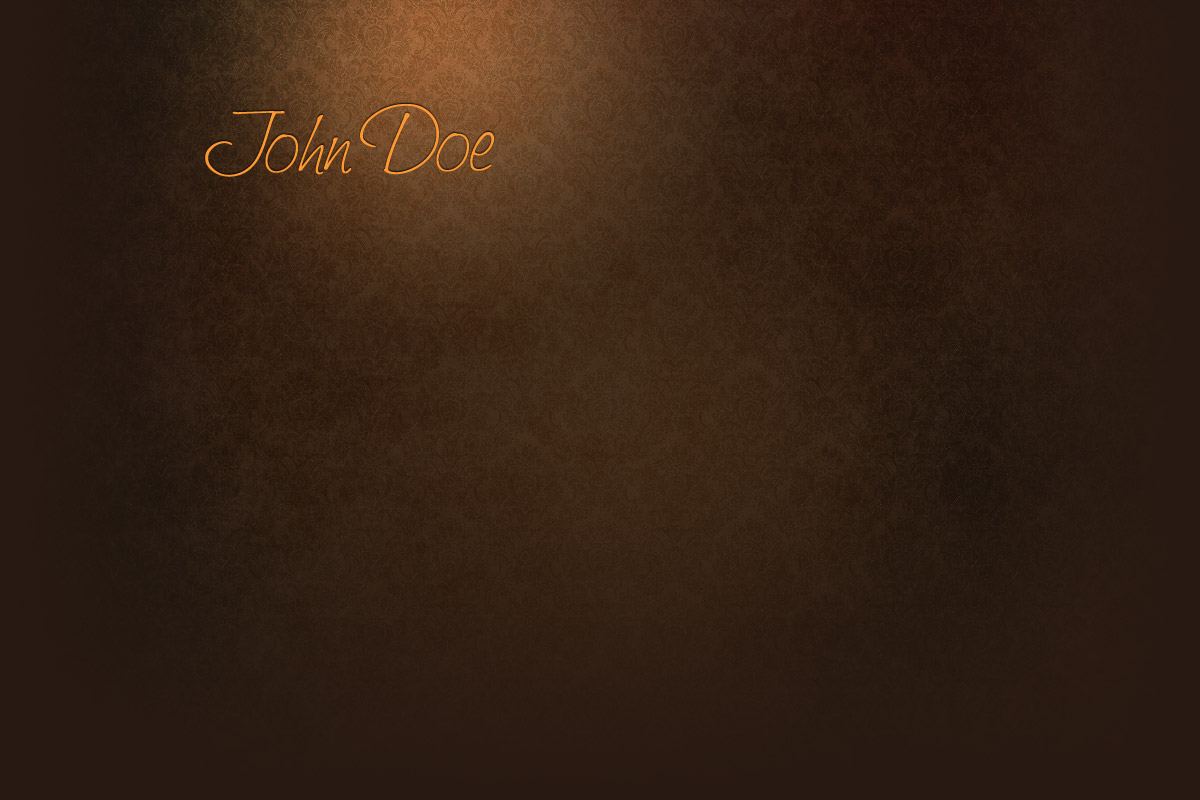
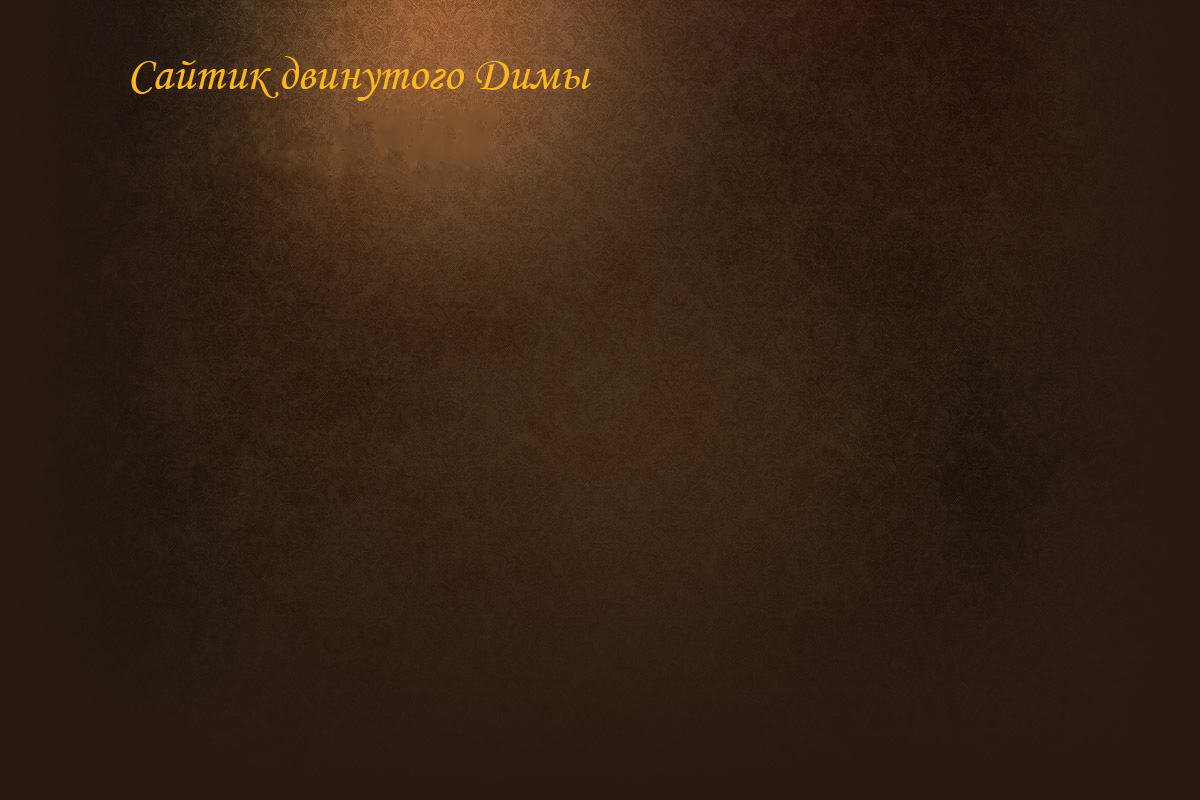
Ыыыыы

Changed region(s): [[0.0925, 0.0625, 0.4933, 0.2188]]

diff --git a/index.html b/index.html
@@ -1,8 +1,9 @@
-<!DOCTYPE HTML PUBLIC "-//W3C//DTD HTML 4.01//EN" "http://www.w3.org/TR/html4/strict.dtd">
+<!DOCTYPE html PUBLIC "-//W3C//DTD XHTML 1.0 Transitional//EN" "http://www.w3.org/TR/xhtml1/DTD/xhtml1-transitional.dtd">
+<html xmlns="http://www.w3.org/1999/xhtml">
 <html>
 	<head>
-		<meta http-equiv="Content-Type" content="text/html; charset=iso-8859-1">
-		<title>Cardex - Personal site template</title>
+		<meta http-equiv="Content-Type" content="text/html; charset=utf-8">
+		<title>Сайт двинутого Димы</title>
 		<link rel="stylesheet" type="text/css" href="style.css" media="screen">
 		<!--[if IE]>
 			<link rel="stylesheet" type="text/css" href="ie.css" media="screen">
@@ -12,8 +13,8 @@
 		<script type="text/javascript" src="js/jquery.lightbox-0.5.pack.js"></script>
 		<script type="text/javascript" src="js/cufon-yui.js"></script>
 		<script type="text/javascript" src="js/Desyrel_400.font.js"></script>
-		
-		<!-- Cufon text replacement -->
+
+		<!-- Cufon text replacement
 		<script type="text/javascript">
 			$(document).ready(function(){
 				Cufon.replace('#about .right ul li');
@@ -24,25 +25,25 @@
 				Cufon.replace('#contactinfo'), {hover:true};
 			});
 		</script>
-		
+-->
 		<!-- jQuery lightbox -->
 		<script type="text/javascript">
 			$(document).ready(function(){
 				$('#work .right a').lightBox();
 			});
 		</script>
-		
+
 		<!-- Navigation and Content effects -->
 		<script type="text/javascript">
 			$(document).ready(function(){
 				$('.page').hide();
 				$('#navigation li:first').addClass('active').show();
 				$('.page:first').show();
-				
+
 				$('#navigation li').click(function(){
 					$('#navigation li').removeClass('active');
 					$(this).addClass('active');
-					
+
 					$('.page').hide();
 					var activeTab = $(this).find('a').attr('href');
 					$(activeTab).fadeIn('slow');
@@ -54,7 +55,7 @@
 	</head>
 	<body>
 		<div id="pagewrap">
-			
+
 			<!-- Site header and navigation -->
 			<div id="header">
 				<ul id="navigation">
@@ -64,7 +65,7 @@
 					<li><a class="contact" href="#contact"><img src="images/icon-contact.png" alt="Contact"></a></li>
 				</ul>
 			</div>
-			
+
 			<!-- Site content -->
 
 			<div id="content">
@@ -73,13 +74,13 @@
 						<img src="images/author-photo.png" alt="photo">
 					</div>
 					<div class="right">
-						<h2>Hi there! Welcome to my site...</h2>
-						<p>Lorem ipsum dolor sit amet, consectetur adipisicing elit, sed do eiusmod <a href="#">tempor incididunt</a> ut labore et dolore magna aliqua. Ut enim ad minim veniam, quis nostrud exercitation ullamco laboris nisi ut aliquip ex ea commodo consequat. At vero eos et accusamus et iusto odio dignissimos, ducimus qui blanditiis.</p>
-						<h3>Services I provide:</h3>
+						<h2>Ну я это... вот:</h2>
+						<p>Абсолютно нормальная человеческая особь мужского пола.</p>
+						<h3>Что я собственно делаю?</h3>
 						<ul>
-							<li><img src="images/icon-print.png" alt="Print Design">Print Design</li>
-							<li><img src="images/icon-webdesign.png" alt="Web Design">Web Design</li>
-							<li><img src="images/icon-development.png" alt="Development">Development</li>
+							<li><img src="images/icon-print.png" alt="Print Design">Пинаю @#$ </li>
+							<li><img src="images/icon-webdesign.png" alt="Web Design">Галюцинирую</li>
+							<li><img src="images/icon-development.png" alt="Development">Пытаюсь понять ШО ПРАИСХОДЕТ?</li>
 						</ul>
 					</div>
 				</div>
@@ -87,19 +88,19 @@
 				<div id="work" class="page">
 					<div class="left">
 						<img src="images/image-feature.jpg" alt="Featured project">
-						<h3><a href="#">Featured Project</a></h3>
-						<p>Lorem ipsum dolor sit amet, consec tetur adipisicing elit...</p>
+						<h3><a href="#">Нереальный глюк</a></h3>
+						<p></p>
 					</div>
 					<div class="right">
-						<p>Labore et dolore magna aliqua. Ut enim ad minim veniam, quis nostrud exercitation ullamco laboris nisi ut aliquip ex ea commodo consequat.</p>
-						<h3>Print Design:</h3>
+						<p></p>
+						<h3>Глюки 1:</h3>
 						<ul id="work01">
 							<li><a href="images/image01.jpg"><img src="images/logo01.jpg" alt="logo01"></a></li>
 							<li><a href="images/image02.jpg"><img src="images/logo02.jpg" alt="logo02"></a></li>
 							<li><a href="images/image03.jpg"><img src="images/logo03.jpg" alt="logo03"></a></li>
 							<li><a href="images/image04.jpg"><img src="images/logo04.jpg" alt="logo04"></a></li>
 						</ul>
-						<h3>Web Design:</h3>
+						<h3>Глюки 2:</h3>
 						<ul id="work02">
 							<li><a href="images/image05.jpg"><img src="images/web01.jpg" alt="web01"></a></li>
 							<li><a href="images/image06.jpg"><img src="images/web02.jpg" alt="web02"></a></li>
@@ -108,10 +109,10 @@
 						</ul>
 					</div>
 				</div>
-	
+
 				<div id="social" class="page">
 					<div class="left">
-						<p class="tweet-text">Blanditiis praesentium deleniti atque corrupti quos dolores et quas molestias <a href="http://www.google.com/mail">http://www.google.com/mail</a>.</p>
+						<p class="tweet-text"><a href="http://www.google.com/mail">http://www.google.com/mail</a>.</p>
 						<p class="tweet-meta"><a href="#">- 12 hours ago</a></p>
 					</div>
 					<div class="right">
@@ -125,33 +126,31 @@
 						</ul>
 					</div>
 				</div>
-	
+
 				<div id="contact" class="page">
 					<div class="left">
-					<h3>Drop me a note</h3>
+					<h3>Почта</h3>
 						<form method="post" action="#">
 							<ul>
-								<li class="msgname"><label for="Name">Name: </label><input type="text" name="Name" id="Name"></li>
-								<li><label for="Email">E-mail: </label><input type="text" name="Email" id="Email"></li>
-								<li><label for="Message">Message: </label><textarea name="Message" id="Message" rows=2 cols=2></textarea></li>
-								<li><input class="send" type="submit" name="submit" value="Send"></li>
+								<li class="msgname"><label for="Name">Имя: </label><input type="text" name="Name" id="Name"></li>
+								<li><label for="Email">Мыло: </label><input type="text" name="Email" id="Email"></li>
+								<li><label for="Message">Пожелания: </label><textarea name="Message" id="Message" rows=2 cols=2></textarea></li>
+								<li><input class="send" type="submit" name="submit" value="Послать"></li>
 							</ul>
 						</form>
 					</div>
 					<div class="right">
-						<p>Nemo enim ipsam voluptatem quia voluptas sit aspernatur aut odit aut fugit, sed quia consequuntur magni dolores eos qui ratione. Omnis iste natus error sit voluptatem accusantium doloremque laudantium, totam rem aperiam.</p>
-						<p>Consequuntur magni dolores eos qui ratione mnis iste natus. Voluptatem quia voluptas sit aspernatur aut odit aut fugit, sed quia.</p>
-						<div id="contactinfo">
-							<p>Address line 1, line 2, City, XY, 12345</p>
-							<p>123-456-7890</p>
-							<p><a href="#">info@company.com</a></p>
+											<div id="contactinfo">
+							<p>Астрал\ячейки_для_двинутых\410</p>
+							<p>(тут может быть ... пустота)</p>
+							<p>как меня <a href="#">найти</a>?</p>
 						</div>
 					</div>
 				</div>
 			</div>
 
 			<div id="footer">
-				<p>&copy; Copyright notice here  </a></p>
+				<p>&copy; Стащил и переделал </a></p>
 			</div>
 		</div>
 	</body>
